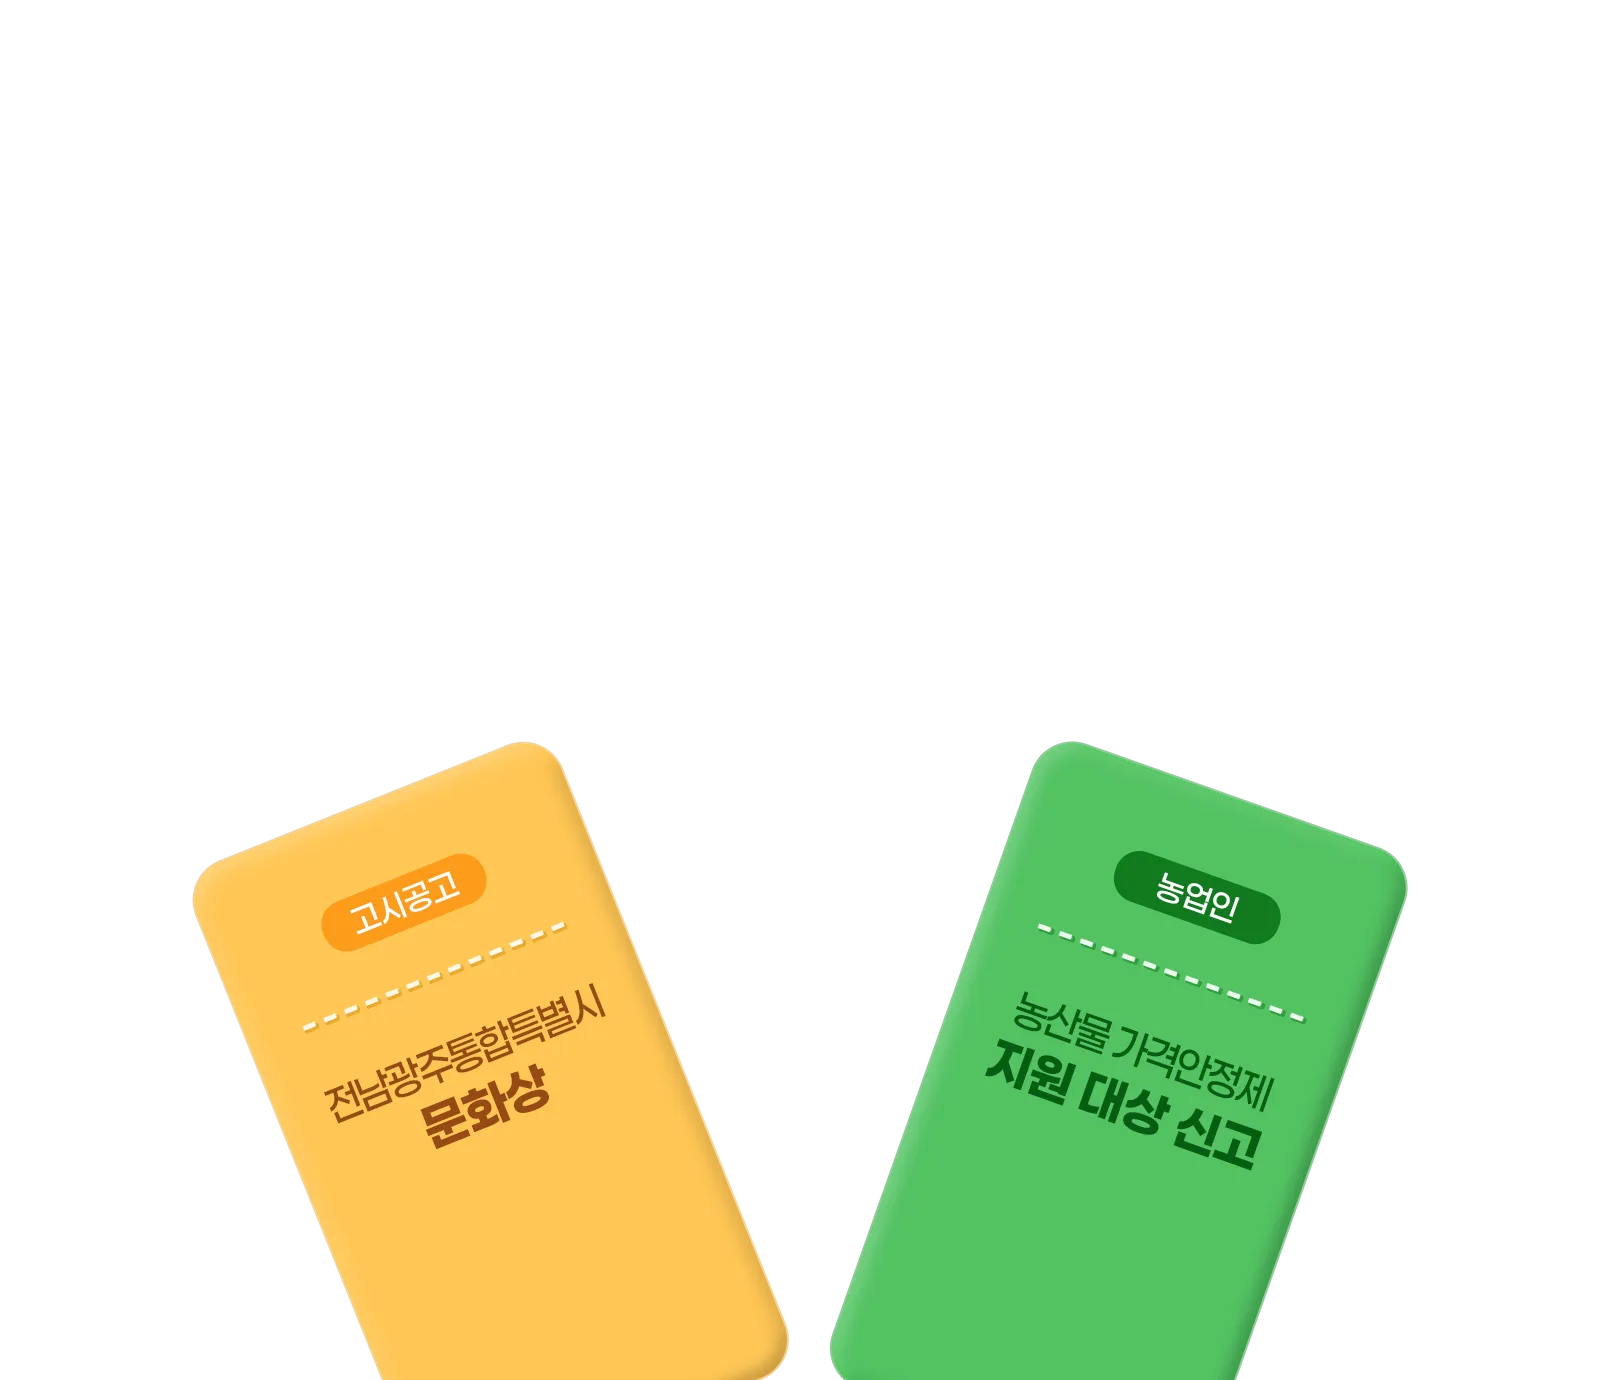
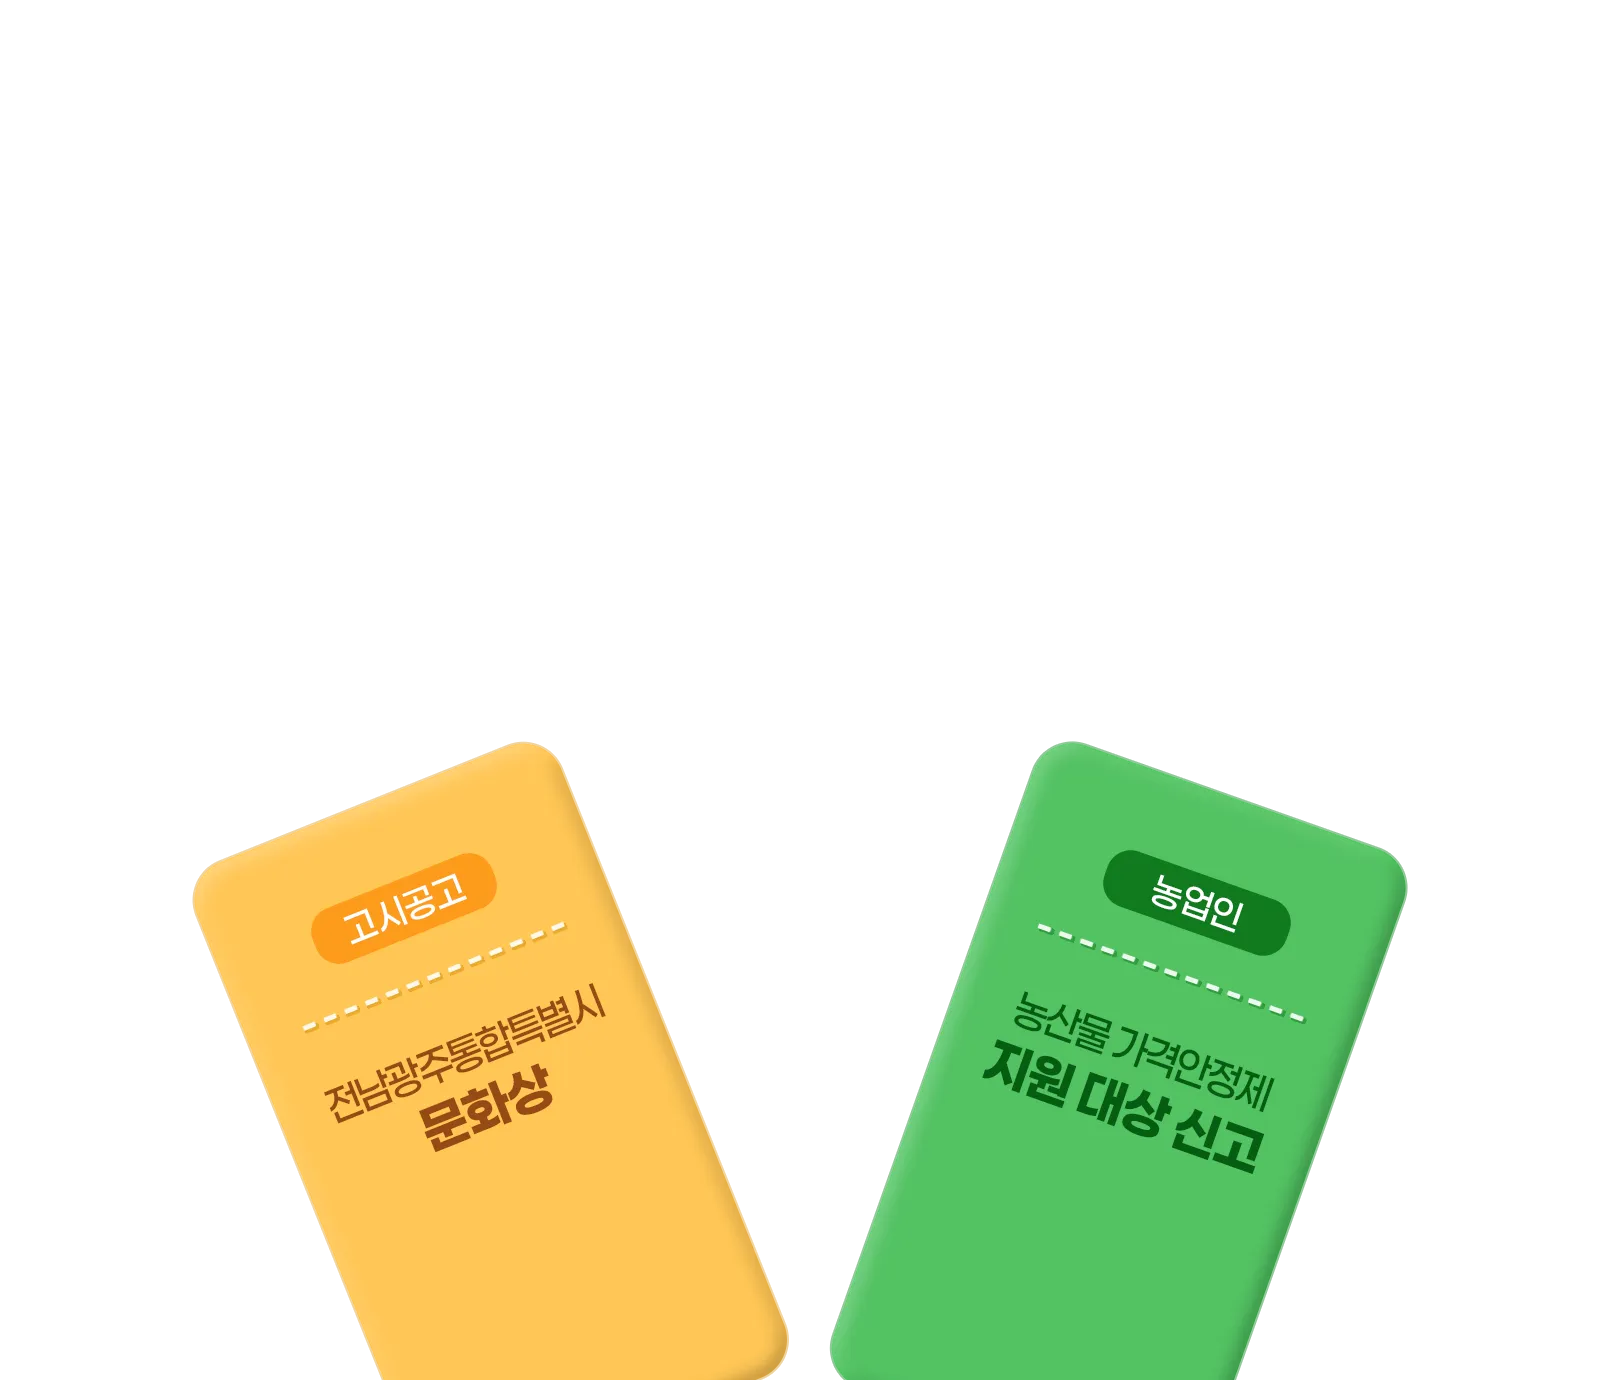
Add files via upload

diff --git a/index.html b/index.html
@@ -402,8 +402,8 @@ if(location.protocol==='file:'||location.hostname.indexOf('github.io')>-1){
 .contents_div .bnf-card__meta > *{display:inline-block;vertical-align:top;line-height:1.62}
 .contents_div .bnf-card__meta > * + *{margin-left:7px}
 .contents_div .bnf-chip{font-size:12px;font-weight:700;padding:5px 10px;border-radius:6px;background:#FFC656;color:#4A3200}   /* 일반시민 : 히어로 옐로 바탕 + 딥브라운 글자 (대비 4.5 확보) */
-.contents_div .bnf-chip.is-youth{background:var(--bnf-pink-soft);color:var(--bnf-pink-deep)}
-.contents_div .bnf-chip.is-biz{background:var(--bnf-cyan-soft);color:var(--bnf-cyan)}
+.contents_div .bnf-chip.is-youth{background:#FC641A;color:#fff}   /* 수험생 배지 : 히어로 오렌지 바탕 + 흰 글자 */
+.contents_div .bnf-chip.is-biz{background:#53C362;color:#063313}   /* 농업인 배지 : 히어로 라이트그린 바탕 + 딥그린 글자 (대비 4.5 이상) */
 .contents_div .bnf-chip.is-etc{background:var(--bnf-violet-soft);color:var(--bnf-violet)}
 .contents_div .bnf-dday{font-size:12px;font-weight:700;padding:5px 10px;border-radius:6px;background:var(--bnf-ink);color:#fff}
 .contents_div .bnf-dday.is-off{background:#E3EDE2;color:var(--bnf-gray)}
